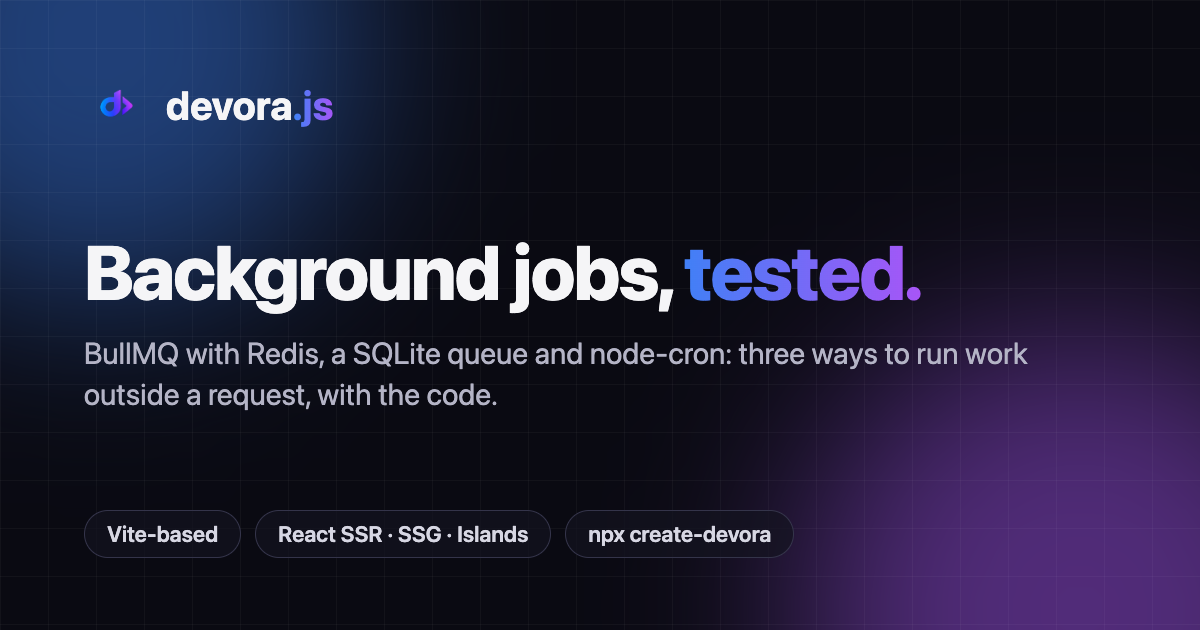
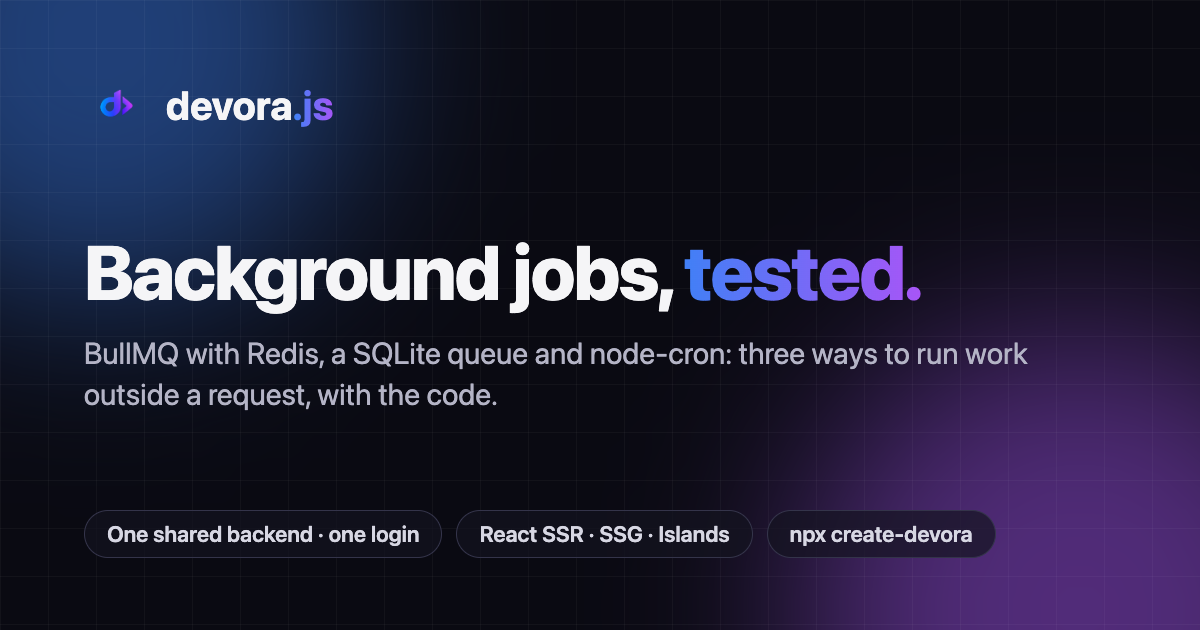
site: marketing text no longer labels Devora.js Vite-based; one description everywhere; islands claim stated factually; one place (Core concepts) says what Vite does

Changed region(s): [[0.0925, 0.7841, 0.8325, 0.9048]]

diff --git a/apps/docs/routes/index.tsx b/apps/docs/routes/index.tsx
@@ -23,7 +23,7 @@ export function meta() {
     title: "Devora.js — one project, several apps",
     fullTitle: "Devora.js — one project, several apps, one backend and one login",
     description:
-      "A Vite-based React framework for projects with more than one app: a marketing site, a product app and an admin panel share one backend and one login, and each deploys on its own.",
+      "A React framework for projects with more than one app: one shared backend, one login, each app deployed on its own.",
   });
 }
 
@@ -82,7 +82,7 @@ const FEATURES = [
   },
   {
     title: "Islands, not full hydration",
-    body: "Opt a single component into client hydration while the rest of the page stays static HTML — the real fix for React's hydration cost.",
+    body: "Hydrate only the components that need interactivity; the rest of the page stays static HTML, so less JavaScript is sent and less hydration work is done.",
     icon: (
       <>
         <circle cx="12" cy="12" r="8" />
@@ -677,7 +677,7 @@ export default function Home({ data }) {
               <span className="home-eyebrow-sep" aria-hidden="true">·</span>
             </>
           ) : null}
-          <span className="home-eyebrow-tag">Vite-based · security-first</span>
+          <span className="home-eyebrow-tag">Multi-app · security-first</span>
         </div>
 
         <h1 className="home-title">
@@ -998,7 +998,7 @@ import { addNote } from "@devorajs/backend/notes";`}
             "@type": "SoftwareSourceCode",
             name: "Devora.js",
             description:
-              "A lightweight, Vite-based, security-first web framework with native multi-app support — one project, multiple sites, sharing a core, deployable independently.",
+              "A React framework for projects with more than one app: one shared backend, one login, each app deployed on its own.",
             url: `${SITE_URL}/`,
             image: OG_IMAGE,
             codeRepository: "https://github.com/hassanalsa3aka/devora.js",

diff --git a/scripts/og-card.html b/scripts/og-card.html
@@ -26,7 +26,7 @@ p{margin-top:22px;font-size:30px;color:#b4b4c6;max-width:960px;line-height:1.35}
   <div class="brand"><img src="../assets/icons/devorajs-logo-withoutbg.png"><span>devora<span class="js">.js</span></span></div>
   <div><h1 id="t">Multi-app by default.<br><span>Security-first.</span></h1>
   <p id="s">One project, multiple sites — sharing a core and a backend, each deployed independently.</p></div>
-  <div class="foot"><span class="pill">Vite-based</span><span class="pill">React SSR · SSG · Islands</span><span class="pill">npx create-devora</span></div>
+  <div class="foot"><span class="pill">One shared backend · one login</span><span class="pill">React SSR · SSG · Islands</span><span class="pill">npx create-devora</span></div>
 </div>
 <script>
   var q = new URLSearchParams(location.search);

diff --git a/apps/docs/routes/core-concepts.tsx b/apps/docs/routes/core-concepts.tsx
@@ -37,6 +37,14 @@ export default function CoreConcepts() {
         <code>devora build</code>), and each is served from its own domain.
       </p>
 
+      <h2>What Vite does</h2>
+      <p>
+        Devora.js currently uses Vite for the dev server (one per app, which also loads and reloads
+        your server modules) and for the client build. Routing, the render modes, sessions, the
+        shared backend and the production server (<code>devora start</code>, which runs without a
+        Vite dev server) are Devora.js's own code.
+      </p>
+
       <h2>Auth: shared, isolated, or none</h2>
       <p>Auth is a per-app setting, not a single project-wide switch. Three modes:</p>
       <div className="devora-card" style={{ borderTopColor: "#3b82f6" }}>

diff --git a/apps/docs/site-footer.tsx b/apps/docs/site-footer.tsx
@@ -327,8 +327,8 @@ export function SiteFooter() {
             </span>
           </a>
           <p className="site-footer-tagline">
-            A Vite-based React framework for projects with more than one app: one shared backend,
-            one login, each app deployed on its own.
+            A React framework for projects with more than one app: one shared backend, one login,
+            each app deployed on its own.
           </p>
           <div className="site-footer-social">
             {SOCIAL.map((s) => (

diff --git a/README.md b/README.md
@@ -5,6 +5,9 @@
 # Devora.js documentation
 
 **The documentation site for [Devora.js](https://github.com/hassanalsa3aka/devora.js), built with Devora.js itself.**
+
+Devora.js is a React framework for projects with more than one app: one shared backend, one login, each app deployed on its own. This site is built with it.
+
 Live at **[devorajs-docs-docs.vercel.app](https://devorajs-docs-docs.vercel.app)**.
 
 <p>
